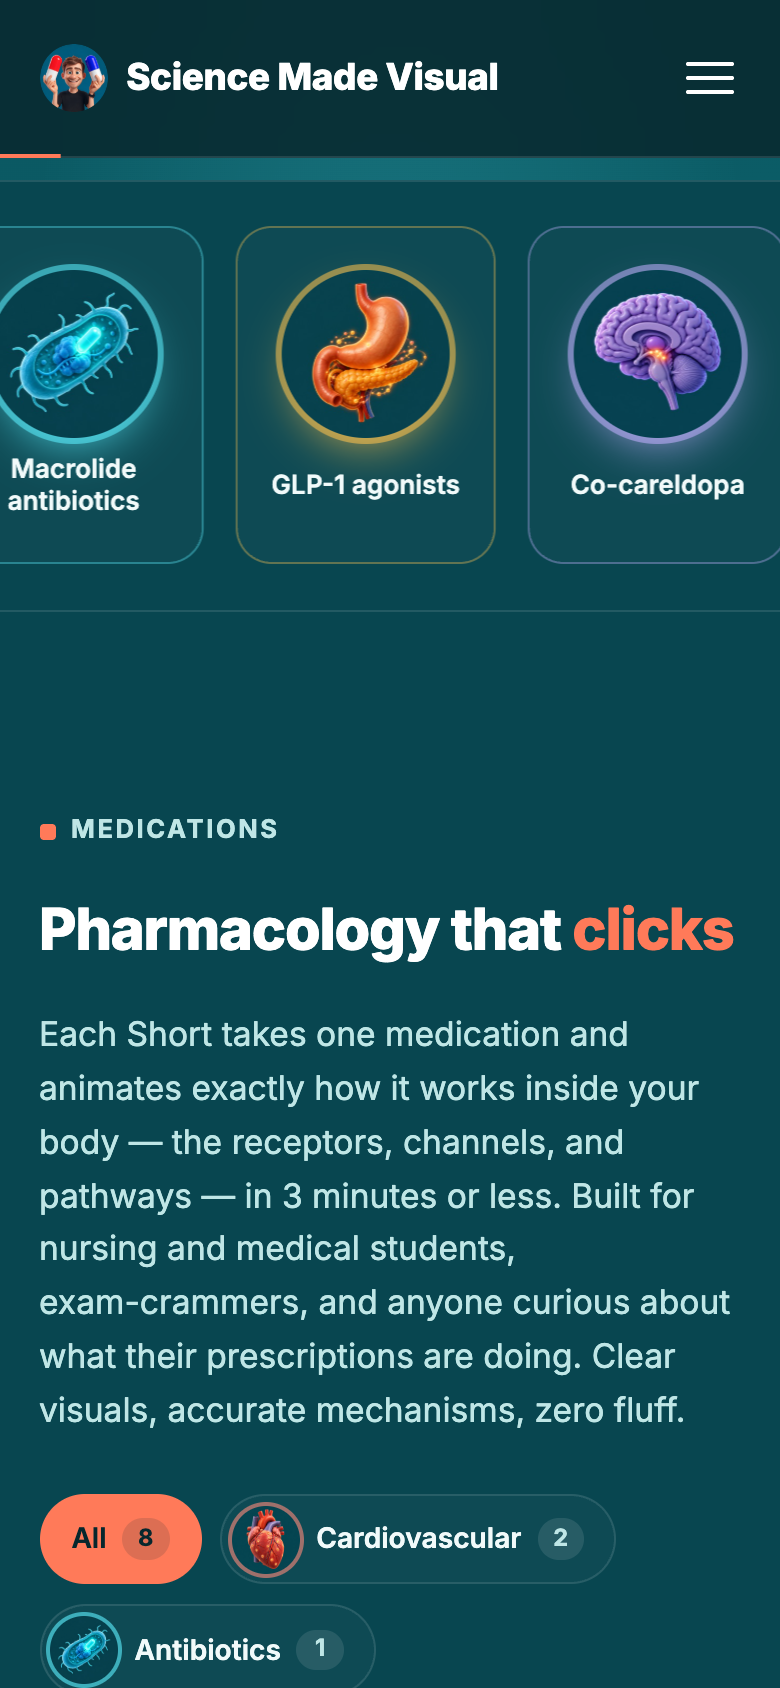
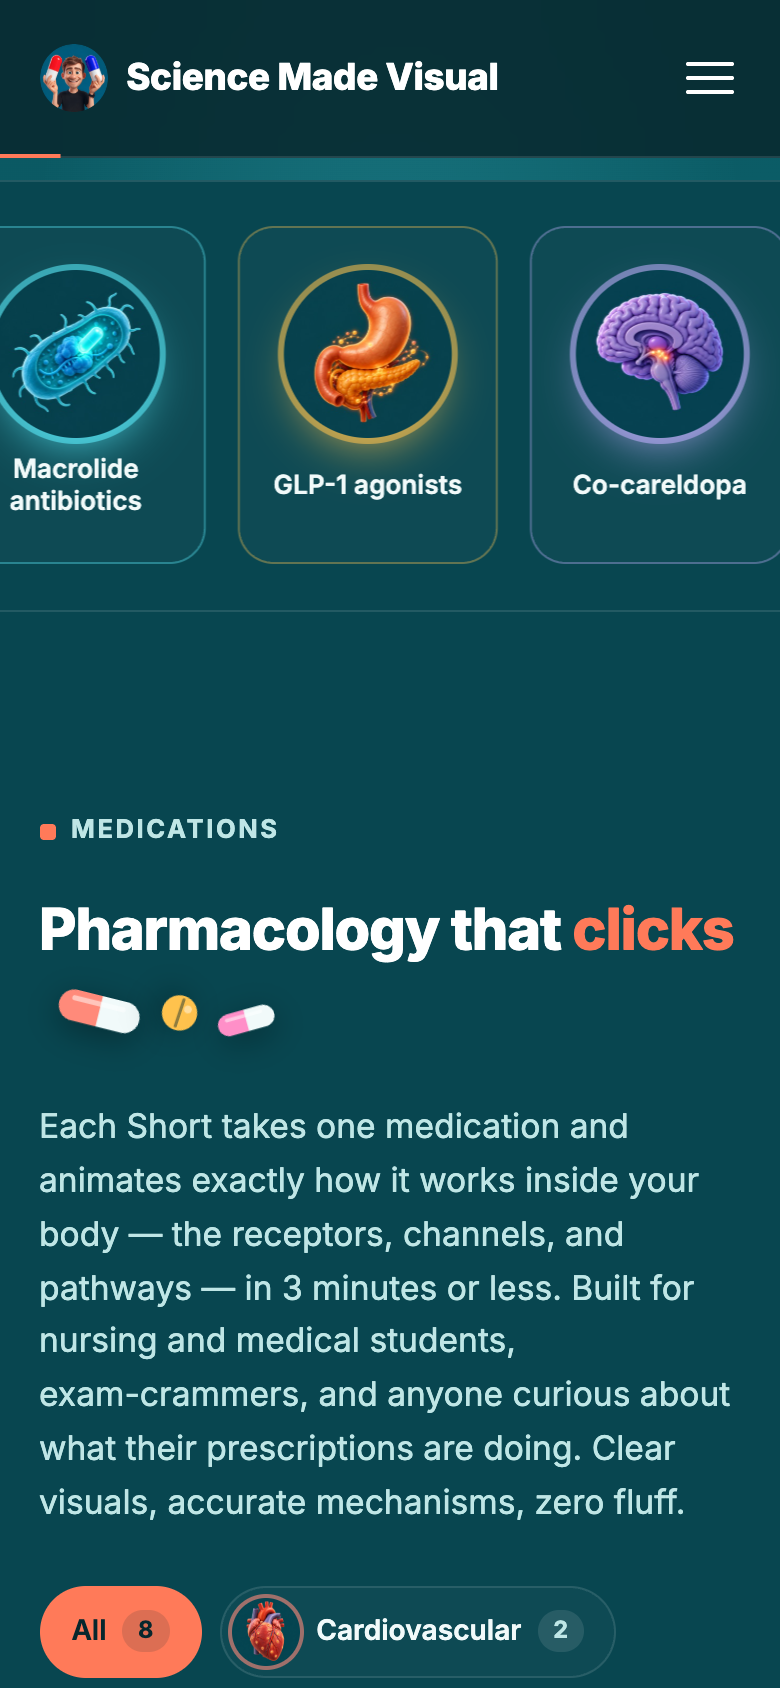
Animated capsules beside the section headings
Two-tone capsules and a tablet in the topic colours bob and tumble next
to each heading, and flip when the heading is hovered. Static when
reduced motion is on.

diff --git a/index.html b/index.html
@@ -551,6 +551,19 @@
     .pill:hover img { transform: scale(1.1) rotate(-4deg); }
     .pill[aria-pressed="true"] img { box-shadow: 0 0 0 2px var(--dark-text); }
     .pill[data-filter]:not([data-filter="all"]):has(img)::before { display: none; }
+    /* Animated capsules beside the section headings (added by script) */
+    .caps { display: inline-flex; align-items: center; gap: .3em; margin-left: .3em; vertical-align: middle; position: relative; top: -.08em; }
+    .caps svg { width: 1.5em; height: auto; overflow: visible; filter: drop-shadow(0 4px 8px rgba(0,0,0,.35)); }
+    .caps svg.tab { width: .68em; }
+    .caps svg.sm { width: 1.05em; }
+    @media (prefers-reduced-motion: no-preference) {
+      .motion .caps svg { animation: capsule-bob 3.4s ease-in-out infinite; transform-origin: 50% 50%; animation-delay: calc(var(--d, 0) * -1.1s); }
+      .motion .caps svg.tab { animation-name: tablet-spin; animation-duration: 5s; }
+      .motion .section-title:hover .caps svg { animation: capsule-flip .9s cubic-bezier(.3,1.4,.5,1) 1; }
+      @keyframes capsule-bob { 0%, 100% { transform: translateY(0) rotate(-22deg); } 50% { transform: translateY(-.18em) rotate(14deg); } }
+      @keyframes tablet-spin { 0% { transform: translateY(0) rotate(0); } 50% { transform: translateY(-.25em) rotate(180deg); } 100% { transform: translateY(0) rotate(360deg); } }
+      @keyframes capsule-flip { to { transform: rotate(360deg) scale(1.15); } }
+    }
   </style>
   <script>
     // Opt into motion before first paint so revealed content never flashes.
@@ -1009,6 +1022,18 @@
 
   // ── Engagement layer (see the CSS block of the same name) ──
   const motion = document.documentElement.classList.contains('motion');
+
+  // Capsules beside each section heading: two-tone pills in the topic colours
+  (() => {
+    const tone = ['--t-cardio', '--t-antibiotics', '--t-metabolic', '--t-neuro', '--t-mental', '--t-leadership'];
+    const cap = (c, d, cls = '') => `<svg class="${cls}" style="--d:${d}" viewBox="0 0 44 18" aria-hidden="true"><path d="M9 1h13v16H9a8 8 0 0 1 0-16z" fill="var(${c})"/><path d="M22 1h13a8 8 0 0 1 0 16H22z" fill="#F1FAFA"/><rect x="7" y="4" width="28" height="2.6" rx="1.3" fill="#fff" opacity=".5"/></svg>`;
+    const tab = (c, d) => `<svg class="tab" style="--d:${d}" viewBox="0 0 20 20" aria-hidden="true"><circle cx="10" cy="10" r="9" fill="var(${c})"/><path d="M3 10h14" stroke="rgba(7,39,45,.45)" stroke-width="1.6" stroke-linecap="round"/><circle cx="7" cy="6.5" r="2" fill="#fff" opacity=".45"/></svg>`;
+    document.querySelectorAll('.section-title').forEach((h, i) => {
+      const a = tone[i % tone.length], b = tone[(i + 2) % tone.length], c = tone[(i + 4) % tone.length];
+      const html = i === 0 ? cap(a, 0) + tab(b, 1) + cap(c, 2, 'sm') : cap(a, i) + tab(b, i + 1);
+      h.insertAdjacentHTML('beforeend', `<span class="caps" aria-hidden="true">${html}</span>`);
+    });
+  })();
 
   // Episode counter: total comes from SERIES, counts up once on load
   const counter = document.getElementById('episodeCount');
